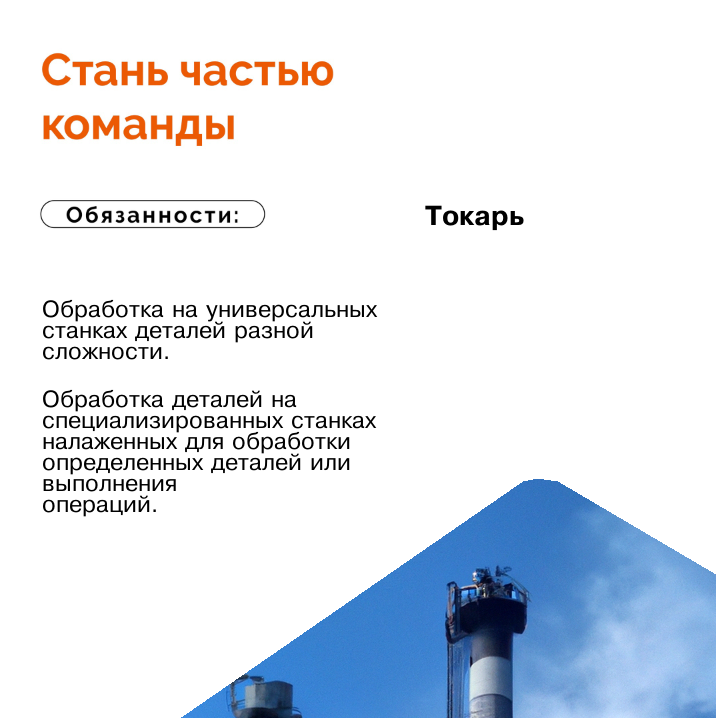
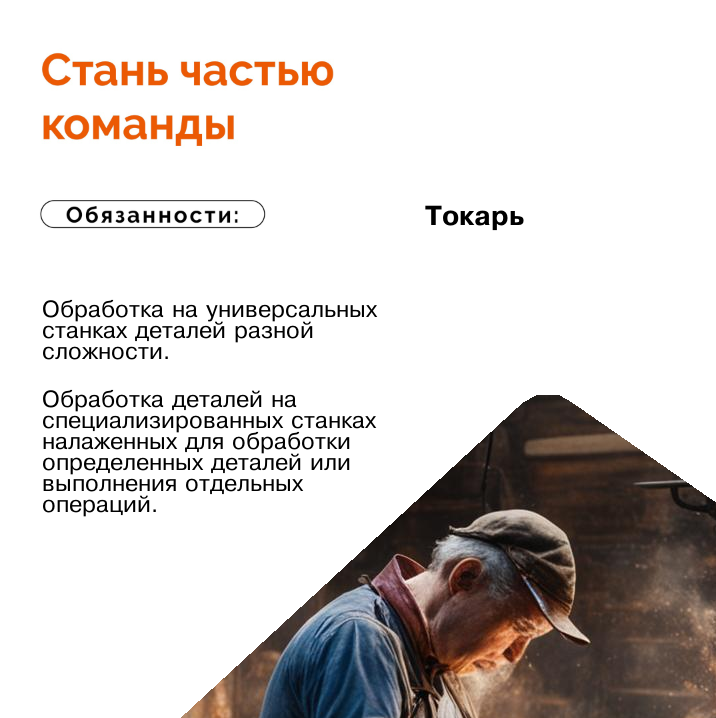
Commit all

Changed region(s): [[0.2458, 0.5515, 1.0, 1.0], [0.2458, 0.6435, 0.4302, 0.7047]]

diff --git a/src/utils/image.py b/src/utils/image.py
@@ -1,0 +1,113 @@
+from PIL import Image, ImageDraw, ImageFont
+import re
+import os
+
+
+def text_to_image(photo_path: str, name: str, text: str) -> str:
+    img = Image.open(photo_path)
+    img_draw = ImageDraw.Draw(img)
+    font_bold = ImageFont.truetype('static/fonts/Pragmatica-Bold.otf', 26)
+    font_regular = ImageFont.truetype('static/fonts/Pragmatica-Regular.otf', 22)
+
+    txt = text.split('\n')
+    list_text = []
+    try:
+        for fragment in txt[txt.index('Обязанности:') + 1:]:
+            if len(list_text) > 0 and fragment == '':
+                break
+            elif fragment != '':
+                list_text.append(fragment)
+    except Exception as _ex:
+        for fragment in txt[txt.index('Требования:') + 1:]:
+            if len(list_text) > 0 and fragment == '':
+                break
+            elif fragment != '':
+                list_text.append(fragment)
+
+    if 'template1' in photo_path:
+        name = [line.strip() for line in re.findall(r'.{1,22}(?:\s+|$)', name)]
+        img_draw.text((322, 290 - 5 * len(name)), text='\n'.join(name), fill=(0, 0, 0), font=font_bold)
+
+        count_lines = 0
+        count_symbols = 0
+        for fragment in list_text:
+            count_symbols += len(fragment)
+            if count_symbols <= 200:
+                fragment = [line.strip() for line in re.findall(r'.{1,28}(?:\s+|$)', fragment)]
+                img_draw.text((322, 430 + 30 * count_lines), text='\n'.join(fragment) + '.', fill=(0, 0, 0),
+                              font=font_regular)
+                count_lines = len(fragment)
+    elif 'template2' in photo_path:
+        name = [line.strip() for line in re.findall(r'.{1,22}(?:\s+|$)', name)]
+        if len(max(name, key=lambda x: len(x))) > 15:
+            img_draw.text((350, 210 - 5 * len(name)), text='\n'.join(name), fill=(0, 0, 0), font=font_bold)
+        else:
+            img_draw.text((425, 210 - 5 * len(name)), text='\n'.join(name), fill=(0, 0, 0), font=font_bold)
+
+        count_lines = 0
+        count_symbols = 0
+        for fragment in list_text:
+            count_symbols += len(fragment)
+            if count_symbols <= 200:
+                fragment = [line.strip() for line in re.findall(r'.{1,28}(?:\s+|$)', fragment)]
+                img_draw.text((42, 300 + 30 * count_lines), text='\n'.join(fragment) + '.', fill=(0, 0, 0),
+                              font=font_regular)
+                count_lines += len(fragment)
+
+    file_path = 'static/img/result.png'
+    img.save(file_path)
+
+    os.remove(photo_path)
+
+    return file_path
+
+
+def image_to_image(template_path: str, chat_image_path: str) -> str:
+    template_img = Image.open(template_path).convert("RGBA")
+    chat_img = Image.open(chat_image_path).convert("RGBA")
+    if 'template1' in template_path:
+        chat_img = chat_img.crop((chat_img.width // 4, 0, chat_img.width * 3 // 4, chat_img.height))
+        template_img.paste(
+            chat_img.resize((chat_img.width, chat_img.height)),
+            (-chat_img.width // 2, 0),
+            chat_img.resize((chat_img.width, chat_img.height))
+        )
+        draw = ImageDraw.Draw(template_img)
+        # закругление
+        draw.polygon(((0, 0), (0.5 * chat_img.width, 0), (0.5 * chat_img.width, 0.5 * template_img.height),
+                      (0.48 * chat_img.width, 0.45 * template_img.height),
+                      (0, 0.02 * template_img.height)), fill=(255, 255, 255))
+        draw.polygon(((0, template_img.height), (0.5 * chat_img.width, template_img.height),
+                      (0.5 * chat_img.width, 0.5 * template_img.height),
+                      (0.48 * chat_img.width, 0.55 * template_img.height),
+                      (0, 0.98 * template_img.height)), fill=(255, 255, 255))
+    elif 'template2' in template_path:
+        chat_img = chat_img.crop((template_img.width // 4, 0.05 * chat_img.height, chat_img.width, chat_img.height))
+        template_img.paste(
+            chat_img.resize((chat_img.width, chat_img.height)),
+            (template_img.width // 4, round(0.55 * template_img.height)),
+            chat_img.resize((chat_img.width, chat_img.height))
+        )
+        draw = ImageDraw.Draw(template_img)
+        # закругление
+        draw.polygon(((template_img.width // 4, 0.55 * template_img.height),
+                      (0.75 * template_img.width, 0.55 * template_img.height),
+                      (0.73 * template_img.width, 0.56 * template_img.height),
+                      (template_img.width // 4, template_img.height)),
+                     fill=(255, 255, 255))
+        draw.polygon(((template_img.width, 0.7 * template_img.height), (template_img.width, 0.55 * template_img.height),
+                      (0.78 * template_img.width, 0.55 * template_img.height),
+                      (0.8 * template_img.width, 0.56 * template_img.height)),
+                     fill=(255, 255, 255))
+
+    file_path = f"static/img/{template_path[template_path.rfind('/') + 1:template_path.rfind('.')]}_image.png"
+    template_img.save(file_path)
+
+    if 'reserve.jpg' not in chat_image_path:
+        os.remove(chat_image_path)
+
+    return file_path
+
+
+if __name__ == '__main__':
+    image_to_image(template_path='static/img/template2.png', chat_image_path='static/img/reserve.jpg')

diff --git a/src/service.py b/src/service.py
@@ -1,5 +1,4 @@
 import json
-import os
 from bs4 import BeautifulSoup
 from random import randint
 
@@ -7,16 +6,16 @@ from src.config import TG_TOKEN, TG_CHANNEL_ID, VK_TOKEN, VK_CHANNEL_ID
 from src.schemas import ShowVacancy
 from src.telegram.tg_bot import TelegramBot
 from src.vkontakte.vk_bot import VkBot
-from src.utils import fix_mistakes, text_to_image, generate_image_chat, image_to_image
+from src.utils import generate_image as gen_image
+from src.utils import text_to_image, image_to_image
 
 last_template = None
 
 
-async def generate_image(text: str, name: str) -> str:
+async def generate_image(text: str, name: str, is_first_regen: bool = True) -> str:
     global last_template
     try:
-        txt = text.split('\n\n')
-        responsibilities = txt[txt.index('Обязанности:') + 1:][0].split('\n')
+        # выбор шаблона (в первый раз рандомный, в следующие разы меняется)
         if last_template == 1:
             template_number = 2
         elif last_template == 2:
@@ -24,10 +23,16 @@ async def generate_image(text: str, name: str) -> str:
         else:
             template_number = randint(1, 2)
         template_path = f'static/img/template{template_number}.png'
-        template_with_text_path = text_to_image(template_path, name, responsibilities)
 
-        chat_image_path = generate_image_chat(name)
-        photo_path = image_to_image(template_with_text_path, chat_image_path)
+        # наложение картинки на шаблон
+        if is_first_regen:
+            chat_image_path = gen_image(name)
+        else:
+            chat_image_path = 'static/img/reserve.jpg'
+        template_with_image = image_to_image(template_path, chat_image_path)
+
+        # наложение текста на шаблон с картинкой
+        photo_path = text_to_image(template_with_image, name, text)
     except Exception as _ex:
         return 'static/img/reserve.jpg'
     else:
@@ -66,4 +71,3 @@ async def send_vacancy_to_networks(text: str, photo_path: str, vk: bool, tg: boo
         TelegramBot(token=TG_TOKEN).post_channel(data=data)
     if vk:
         VkBot(token=VK_TOKEN).post_channel(data=data)
-    os.remove(photo_path)

diff --git a/src/utils/fusion_brain.py b/src/utils/fusion_brain.py
@@ -1,0 +1,66 @@
+import json
+import time
+import os
+from base64 import b64decode
+import requests
+
+from src.config import FUSION_BRAIN_API_KEY, FUSION_BRAIN_SECRET_KEY
+
+
+class FusionBrain:
+    def __init__(self, url, api_key, secret_key):
+        self.URL = url
+        self.AUTH_HEADERS = {
+            'X-Key': f'Key {api_key}',
+            'X-Secret': f'Secret {secret_key}',
+        }
+        self.model = self.get_model()
+
+    def get_model(self):
+        response = requests.get(self.URL + 'key/api/v1/models', headers=self.AUTH_HEADERS)
+        data = response.json()
+        return data[0]['id']
+
+    def generate(self, name, images=1, width=1024, height=1024):
+        params = {
+            "type": "GENERATE",
+            "numImages": images,
+            "width": width,
+            "height": height,
+            "generateParams": {
+                "query": 'Место, где работает ' + name.lower()
+            }
+        }
+
+        data = {
+            'model_id': (None, self.model),
+            'params': (None, json.dumps(params), 'application/json')
+        }
+        response = requests.post(self.URL + 'key/api/v1/text2image/run', headers=self.AUTH_HEADERS, files=data)
+        data = response.json()
+        return data['uuid']
+
+    def save_image(self, request_id, attempts=10, delay=5):
+        while attempts > 0:
+            response = requests.get(self.URL + 'key/api/v1/text2image/status/' + request_id, headers=self.AUTH_HEADERS)
+            data = response.json()
+            if data['status'] == 'DONE':
+                image_data = b64decode(data['images'][0])
+                file_path = 'static/img/image.png'
+                with open(file_path, 'wb') as file:
+                    file.write(image_data)
+                return file_path
+
+            attempts -= 1
+            time.sleep(delay)
+
+
+def generate_image(name: str) -> str:
+    try:
+        api = FusionBrain('https://api-key.fusionbrain.ai/', FUSION_BRAIN_API_KEY, FUSION_BRAIN_SECRET_KEY)
+        uuid = api.generate(name)
+        file_path = api.save_image(uuid)
+    except Exception as _ex:
+        return 'static/img/reserve.jpg'
+    else:
+        return file_path

diff --git a/src/app.py b/src/app.py
@@ -27,7 +27,7 @@ async def show_vacancy(request: Request, vacancy_name: str = Form(...)):
 
 @app.post('/regeneration_image')
 async def regeneration_image(request: Request, text: str = Form(...), photo_path: str = Form(...), vacancy_name: str = Form(...)):
-    photo_path = await generate_image(text.replace('\r', ''), vacancy_name)
+    photo_path = await generate_image(text.replace('\r', ''), vacancy_name, is_first_regen=False)
     return templates.TemplateResponse('index.html', {'request': request, 'text': text, 'photo_path': photo_path, 'vacancy_name': vacancy_name})
 
 

diff --git a/src/utils/text.py b/src/utils/text.py
@@ -1,0 +1,14 @@
+import openai
+
+from src.config import OPENAI_KEY
+
+openai.api_key = OPENAI_KEY
+
+
+def fix_mistakes(text: str) -> str:
+    content = 'Исправь орфографические ошибки в тексте, не меняя его содержание\n' + text
+    completion = openai.ChatCompletion.create(
+        model='gpt-3.5-turbo', messages=[{'role': 'user', 'content': content}]
+    )
+    response = completion.choices[0].message.content
+    return response

diff --git a/src/config.py b/src/config.py
@@ -8,3 +8,5 @@ TG_CHANNEL_ID = int(os.getenv('TG_CHANNEL_ID'))
 VK_TOKEN = os.getenv('VK_TOKEN')
 VK_CHANNEL_ID = int(os.getenv('VK_CHANNEL_ID'))
 OPENAI_KEY = os.getenv('OPENAI_KEY')
+FUSION_BRAIN_API_KEY = os.getenv('FUSION_BRAIN_API_KEY')
+FUSION_BRAIN_SECRET_KEY = os.getenv('FUSION_BRAIN_SECRET_KEY')

diff --git a/src/utils/__init__.py b/src/utils/__init__.py
@@ -1,0 +1,3 @@
+from src.utils.fusion_brain import generate_image
+from src.utils.image import image_to_image, text_to_image
+from src.utils.text import fix_mistakes
